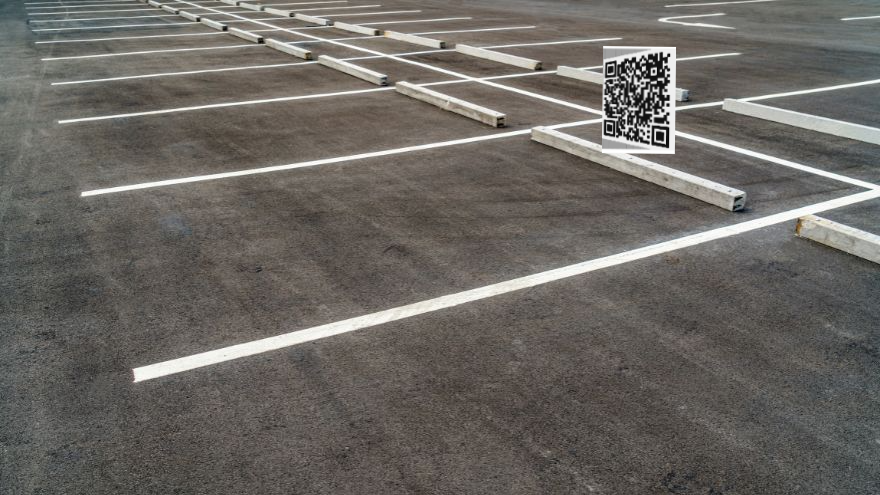
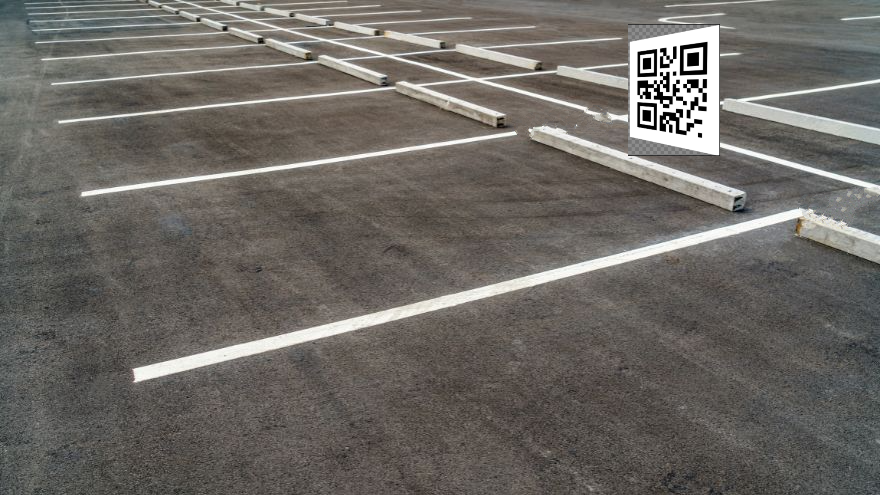
added QR-code

Changed region(s): [[0.583, 0.0303, 0.8284, 0.3333], [0.8898, 0.3636, 1.0, 0.4545]]

diff --git a/computer_vision/line_detection/parking_slot_detection.py b/computer_vision/line_detection/parking_slot_detection.py
@@ -3,7 +3,12 @@ import warnings
 import cv2
 import numpy as np
 from main import LineDetector
-
+import sys
+import os
+current = os.path.dirname(os.path.realpath(__file__))
+parent = os.path.dirname(current)
+sys.path.append(parent)
+from qr_code.qr_code import QRCode
 
 class ParkingSlotDetector(LineDetector):
 
@@ -17,6 +22,8 @@ class ParkingSlotDetector(LineDetector):
 
     def detect_parking_lines(self, image):
         lines = self.get_lines(image)
+        if lines is None:
+            return None
         clustered_lines = []
         clustered_coords = []
         for line in lines:
@@ -35,7 +42,7 @@ class ParkingSlotDetector(LineDetector):
                         not_stopped = True
                         for i,cluster in enumerate(clustered_lines):
                             for line in cluster:
-                                if np.isclose((slope, intercept), cluster, atol=70, rtol=1e-9).all():
+                                if np.isclose((slope, intercept), cluster, atol=20, rtol=1e-9).all():
                                     cluster.append((slope, intercept))
                                     clustered_coords[i].append(np.array([x_1, y_1, x_2, y_2]))
                                     not_stopped = False
@@ -47,30 +54,54 @@ class ParkingSlotDetector(LineDetector):
                 except np.RankWarning:
                     pass
 
+        avg_lines_coords = []
         avg_lines = []
         for i, cluster in enumerate(clustered_lines):
             line = np.average(cluster, axis=0)
+            avg_lines.append(line)
             max_values = np.argmax(clustered_coords[i], axis=0)
             max_x = np.max([clustered_coords[i][max_values[0]][0], clustered_coords[i][max_values[2]][2]])
             min_values = np.argmin(clustered_coords[i], axis=0)
             min_x = np.min([clustered_coords[i][min_values[0]][0], clustered_coords[i][min_values[2]][2]])
             coordinates = parking_slot_detector.get_line_coordinates_from_parameters(min_x, max_x, line)
-            avg_lines.append(coordinates)
+            avg_lines_coords.append(coordinates)
+
+        QR_SIZE_PX = 76
+        QR_SIZE_MM = 52
+        QR_DISTANCE = 500
+        qr_code = QRCode(QR_SIZE_PX, QR_SIZE_MM, QR_DISTANCE)
+        retval, distance, angle, decoded_info, points, rest = qr_code.get_data(img)
+        if retval:
+            qr_code.display(img, angle, distance, decoded_info)
+            qr_slope, qr_intercept = np.polyfit(points[0][0], points[0][1], 1)
+
+            for i, line in enumerate(avg_lines):
+                if np.isclose(qr_slope, line[0], atol=10, rtol=1e-9) and np.isclose(qr_intercept, line[1], atol=50, rtol=1e-9):
+                    avg_lines.pop(i)
+                    avg_lines_coords.pop(i)
+                    
         
+            # TODO: might not need this, detect check coordinates with QR-codes
+            lines = []
+            for i in range(len(avg_lines_coords)):
+                max_values= np.argmax(avg_lines_coords, axis=0)
+                max_y = max(avg_lines_coords[max_values[1]][1], avg_lines_coords[max_values[3]][3])
+                if max_y == avg_lines_coords[max_values[1]][1]:
+                    closest_line_index = max_values[1]
+                else:
+                    closest_line_index = max_values[3]
 
-        # TODO: might not need this, detect check coordinates with QR-codes
-        lines = []
-        for i in range(2):
-            max_values= np.argmax(avg_lines, axis=0)
-            max_y = max(avg_lines[max_values[1]][1], avg_lines[max_values[3]][3])
-            if max_y == avg_lines[max_values[1]][1]:
-                closest_line_index = max_values[1]
-            else:
-                closest_line_index = max_values[3]
+                closest_line = avg_lines_coords.pop(closest_line_index)
+                lines.append(closest_line)
 
-            closest_line = avg_lines.pop(closest_line_index)
-            lines.append(closest_line)
-        return lines
+                if len(lines) > 1:
+                    if max(lines[0][0], lines[0][2]) >= points[0][0][0] and max(lines[1][0], lines[1][2]) <= points[0][1][0]:
+                        break
+                    else:
+                        lines.pop(0)
+
+            return lines
+        return None
 
     def get_line_coordinates_from_parameters(self, min_x, max_x, line_parameters):
         """Get line coordinates from line parameters"""
@@ -83,12 +114,14 @@ class ParkingSlotDetector(LineDetector):
         return np.array([x_1, y_1, x_2, y_2])
 
 if __name__ == "__main__":
-    parking_slot_detector = ParkingSlotDetector()
-    img = cv2.imread('computer_vision/line_detection/assets/parking/3.png')
+    parking_slot_detector = ParkingSlotDetector(hough=[200, 5])
+    img = cv2.imread('computer_vision/line_detection/assets/parking/2.png')
     copy = img.copy()
+    all_lines = parking_slot_detector.get_lines(copy)
+    parking_slot_detector.show_lines(copy, all_lines)
     parking_lines = parking_slot_detector.detect_parking_lines(img)
     parking_slot_detector.show_lines(img, parking_lines)
-
+    cv2.imshow("original", copy)
     cv2.imshow("img", img)
     cv2.waitKey(0)
     cv2.destroyAllWindows()

diff --git a/computer_vision/qr_code/qr_code.py b/computer_vision/qr_code/qr_code.py
@@ -150,7 +150,7 @@ class DisplayQRCode:
 
         cv.putText(frame, f'angle    = {int(angle)}', (10, 20), self.font, \
                             self.font_scale * 1.5, self.text_color, self.text_thickness, cv.LINE_AA)
-        cv.putText(frame, f'distance = {int(distance)}', (10, 50), \
+        cv.putText(frame, f'distance = {int(dist)}', (10, 50), \
                 self.font, self.font_scale * 1.5, self.text_color, self.text_thickness, cv.LINE_AA)
 
 def local_read_camera(name=None, resize=1):
